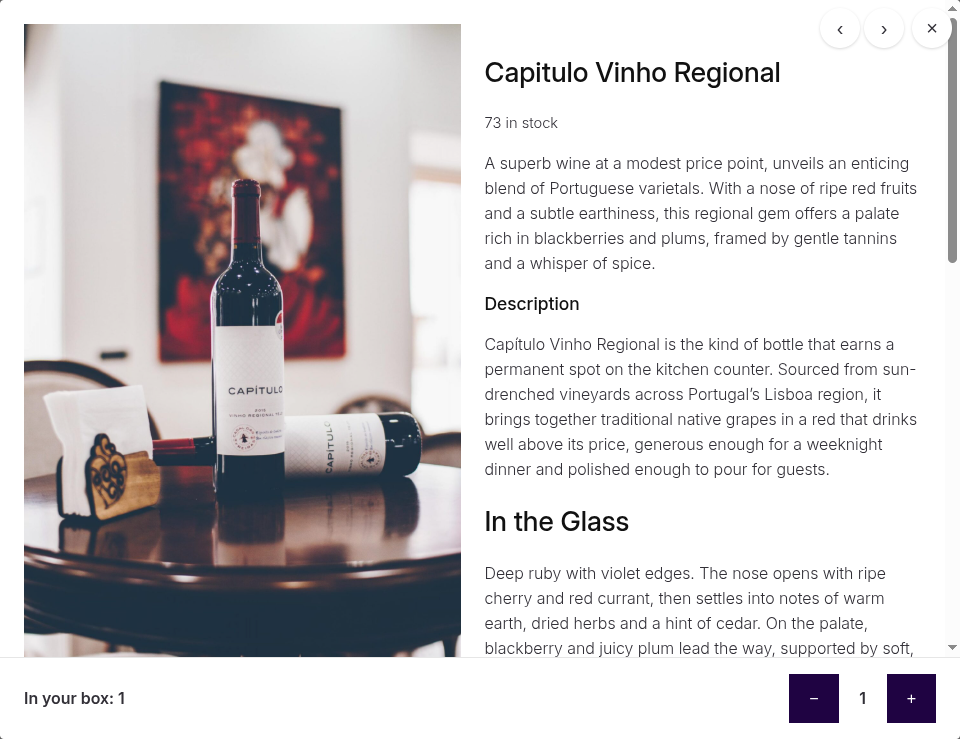
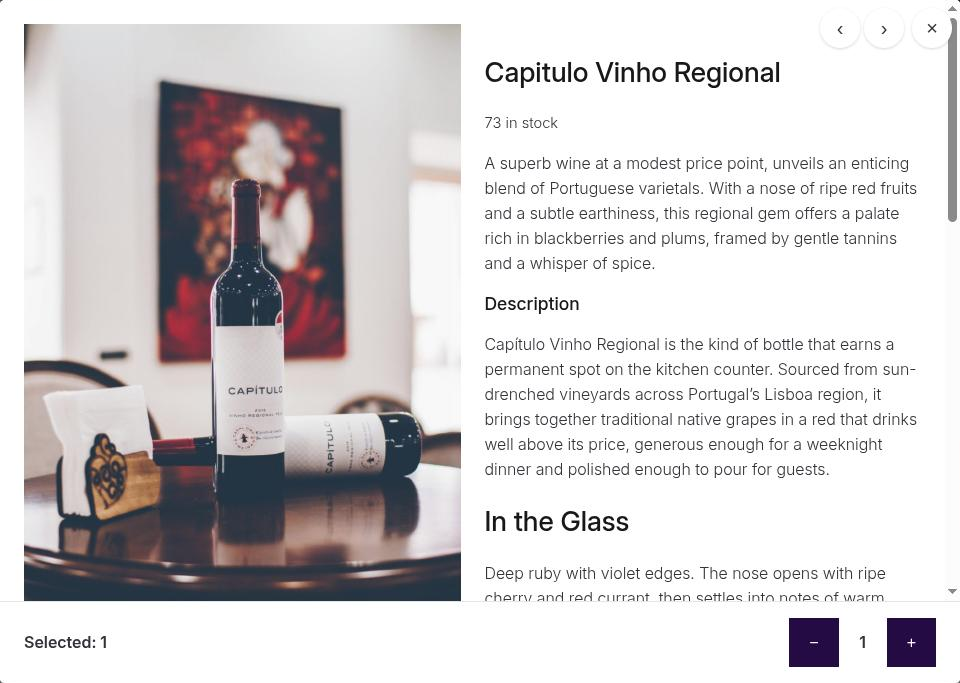
Update the README screenshot, button text docs and loaded event
Retake the screenshot with the new "Selected" text, explain the default
button text and the buttonLabel string, and document the
wc-mnm-quick-view-loaded event and the hooks' arguments.

diff --git a/README.md b/README.md
@@ -4,11 +4,13 @@
 
 Mini-extension for [WooCommerce Mix and Match](https://woocommerce.com/products/woocommerce-mix-and-match-products/) that opens a child item's product details in a pop-up when shoppers click the magnifier button in the corner of its image, or its title. The pop-up has a button to add the product to the container, a quantity stepper, and previous/next buttons to page through the products.
 
-It's built on the Interactivity API and the Mix and Match container store (`@wc-mix-and-match/container`): the modal reads each child item's state from the store and changes quantities with its actions, so it doesn't depend on how the add to cart form is rendered. It works in forms loaded with ajax, such as editing a subscription, but not in the admin, where the store isn't loaded. There's no build step and no React.
+It's built on the Interactivity API and the Mix and Match container store (`@wc-mix-and-match/container`): the modal reads each child item's state from the store and changes quantities with its actions, so it doesn't depend on how the add to cart form is rendered. It works in forms loaded with ajax, such as editing a subscription, but not in the admin, where the store isn't loaded. The script needs no build step and no React.
 
-![The quick view modal for a wine in a Mix and Match box: its photo, title, stock and description, with previous, next and close buttons, and a quantity stepper showing 1 in the box.](.github/screenshot.png)
+![The quick view modal for a wine in a Mix and Match box: its photo, title, stock and description, with previous, next and close buttons, "Selected: 1", and a quantity stepper showing 1.](.github/screenshot.png)
 
 ### Customizing the button text
+
+The buttons say "Add" and "Remove", and the footer says "Selected: 2", so they suit any kind of container. The remove button is shown for checkbox selections, the stepper for quantities.
 
 Each Mix and Match product has "Quick view add button text" and "Quick view remove button text" fields in its Mix and Match product data, ex: "Add to bundle".
 
@@ -30,12 +32,21 @@ add_filter( 'wc_mnm_quick_view_i18n', function( $i18n ) {
 } );
 ```
 
+For screen readers, the add, remove and stepper buttons name the product, ex: "Add Capitulo Vinho Regional". The `buttonLabel` string, `%1$s %2$s`, puts the button text and the product title together, so it can be reordered in translations or with the `wc_mnm_quick_view_i18n` filter.
+
 ### Other filters and hooks
 
 * `wc_mnm_has_quick_view` - return false to turn the quick view off, gets the container product when known.
-* `wc_mnm_quick_view_template_args` - change the data passed to the content template.
+* `wc_mnm_quick_view_template_args` - change the data passed to the content template, gets the child item.
 * `wc_mnm_quick_view_preload_all` - return false to stop loading every child item's details once the page is idle. They then load on the first hover or focus of a child item, in one request per container.
-* `wc_mnm_quick_view_before_summary` / `wc_mnm_quick_view_after_summary` - add to the product details.
+* `wc_mnm_quick_view_before_summary` / `wc_mnm_quick_view_after_summary` - add to the product details, get the child item and the container.
+* `wc-mnm-quick-view-loaded` - a DOM event fired on the quick view `<dialog>` after a product's details render, with `{ containerId, productId }` in `event.detail`. It bubbles, so listen on `document`:
+
+```js
+document.addEventListener( 'wc-mnm-quick-view-loaded', ( event ) => {
+	console.log( event.detail.productId );
+} );
+```
 * The product details come from `templates/single-product/mnm/quick-view-content.php`, which can be overridden in your theme at `yourtheme/woocommerce/single-product/mnm/quick-view-content.php`.
 
 ### Development
@@ -46,4 +57,4 @@ The script is a native ES module, `assets/js/frontend/quick-view.js`, registered
 
 1. This is provided as is and does not receive priority support.
 2. Please test thoroughly before using in production.
-3. Requires Mix and Match 3.0+, WooCommerce 8.0+ and WordPress 6.5+.
+3. Requires Mix and Match 3.0.0-beta.1+, WooCommerce 8.0+ and WordPress 6.5+.
